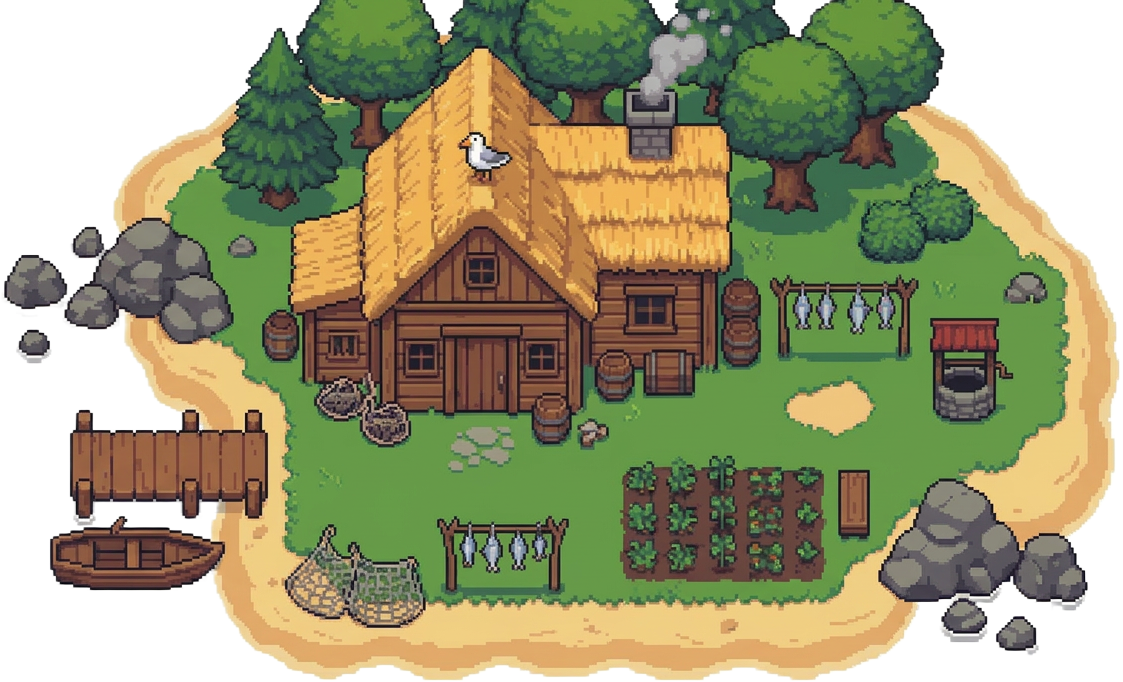
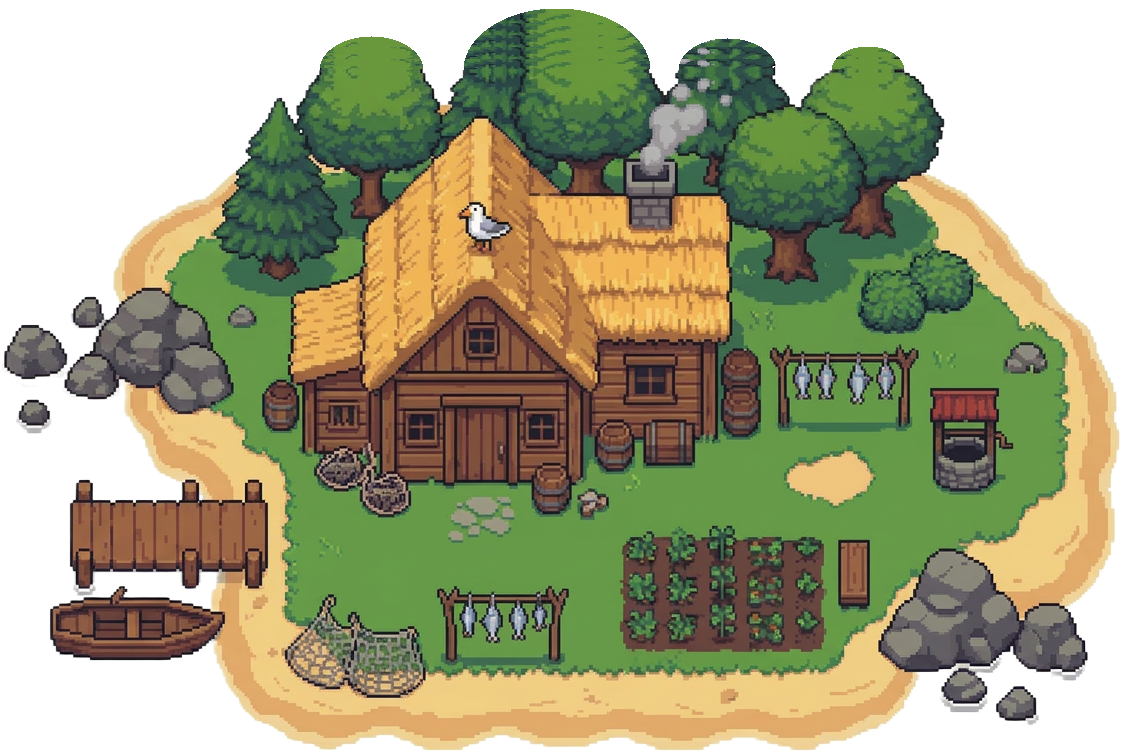
Camera edge fix, bigger SE island, new fisherman

diff --git a/src/lib/village.ts b/src/lib/village.ts
@@ -118,12 +118,12 @@ export const ISLETS: Islet[] = [
   {
     // Fisherman's island homestead with garden, well and dock.
     id: "se",
-    img: { x: 2235, y: 1720, w: 360, h: 219 },
-    walk: { x: 2425, y: 1838, rx: 150, ry: 82 },
-    decks: [{ x: 2248, y: 1850, w: 78, h: 32 }],
-    solid: [{ x: 2321, y: 1765, w: 152, h: 80 }],
-    roof: { x: 2300, y: 1720, w: 200, h: 128 },
-    bridge: { x1: 2150, y1: 1770, x2: 2262, y2: 1862 },
+    img: { x: 2200, y: 1601, w: 594, h: 398 },
+    walk: { x: 2518, y: 1840, rx: 250, ry: 140 },
+    decks: [{ x: 2221, y: 1875, w: 129, h: 53 }],
+    solid: [{ x: 2354, y: 1771, w: 233, h: 85 }],
+    roof: { x: 2348, y: 1601, w: 244, h: 215 },
+    bridge: { x1: 2130, y1: 1760, x2: 2240, y2: 1895 },
   },
 ];
 const BRIDGE_HALF = 22;
@@ -206,7 +206,7 @@ export const VILLAGE_NPCS: VillageNpc[] = [
   { id: "elder-walk", name: "Elder Nuo", x: 690, y: 650, spriteRow: 4, speed: 34, idleMs: 1900, path: [{x:690,y:650},{x:850,y:650},{x:930,y:650},{x:930,y:750},{x:950,y:760},{x:1300,y:960},{x:840,y:1190},{x:560,y:1380},{x:520,y:900},{x:640,y:900},{x:690,y:890}] },
   { id: "queen-parade", name: "Queen Aya", x: 2070, y: 570, spriteRow: 5, speed: 38, idleMs: 1800, path: [{x:2070,y:570},{x:1740,y:760},{x:1450,y:960},{x:1830,y:1160},{x:2290,y:1020}] },
   // Old fisherman: strolls the south-east shore and keeps crossing the bridge to his island homestead.
-  { id: "fisherman", name: "Pak Bayu", x: 2100, y: 1700, spriteRow: 6, speed: 36, idleMs: 2200, path: [{x:2100,y:1700},{x:2150,y:1770},{x:2262,y:1862},{x:2290,y:1868},{x:2380,y:1880},{x:2510,y:1860},{x:2380,y:1880},{x:2290,y:1868},{x:2262,y:1862},{x:2150,y:1770}] },
+  { id: "fisherman", name: "Pak Bayu", x: 2100, y: 1700, spriteRow: 6, speed: 36, idleMs: 2200, path: [{x:2100,y:1700},{x:2130,y:1760},{x:2240,y:1895},{x:2290,y:1900},{x:2420,y:1900},{x:2600,y:1900},{x:2420,y:1900},{x:2290,y:1900},{x:2240,y:1895},{x:2130,y:1760}] },
 ];
 
 function rng(seed: number) { let s=seed; return () => ((s=(s*1664525+1013904223)%4294967296)/4294967296); }

diff --git a/src/components/VillageCanvas.tsx b/src/components/VillageCanvas.tsx
@@ -778,8 +778,10 @@ export default function VillageCanvas({ characterTier, houseTier, moveRef, onNea
         onPostOfficeChange?.(isNearPost);
       }
 
-      const camX = Math.max(0, Math.min(WORLD_W - viewW, s.x - viewW / 2));
-      const camY = Math.max(0, Math.min(WORLD_H - viewH, s.y - viewH / 2));
+      // Let the camera drift past the map edge (over open sea) so corner islets are never hidden behind the HUD.
+      const CAM_PAD = 200;
+      const camX = Math.max(-CAM_PAD, Math.min(WORLD_W - viewW + CAM_PAD, s.x - viewW / 2));
+      const camY = Math.max(-CAM_PAD, Math.min(WORLD_H - viewH + CAM_PAD, s.y - viewH / 2));
 
       ctx.setTransform(dpr, 0, 0, dpr, 0, 0);
       ctx.clearRect(0, 0, vw, vh);
@@ -789,7 +791,7 @@ export default function VillageCanvas({ characterTier, houseTier, moveRef, onNea
 
       // ocean and layered island shore
       ctx.fillStyle = PALETTE.ocean;
-      ctx.fillRect(0, 0, WORLD_W, WORLD_H);
+      ctx.fillRect(-400, -400, WORLD_W + 800, WORLD_H + 800);
       ctx.strokeStyle = PALETTE.oceanLight;
       ctx.lineWidth = 3;
       for (let wy = 55; wy < WORLD_H; wy += 70) {
